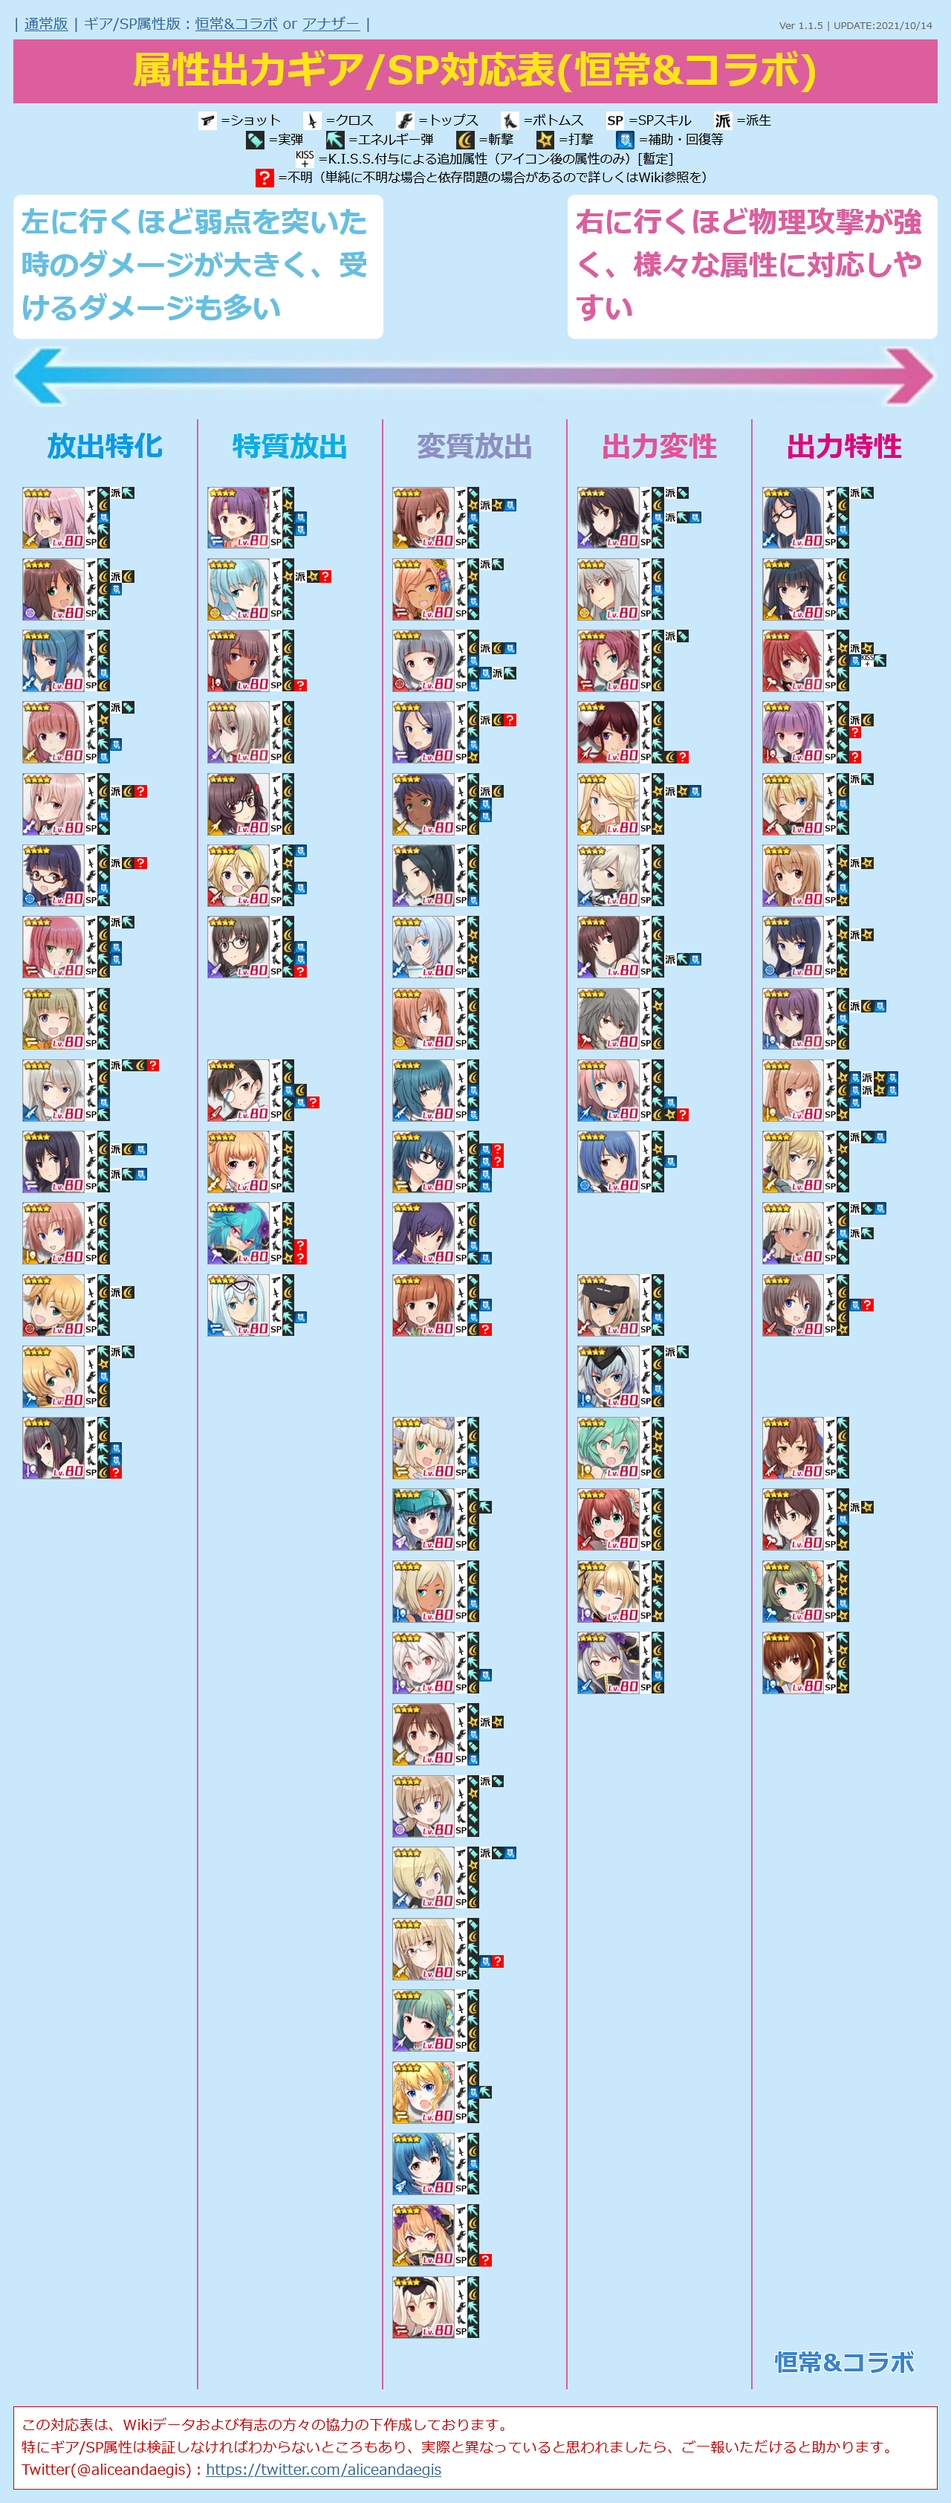
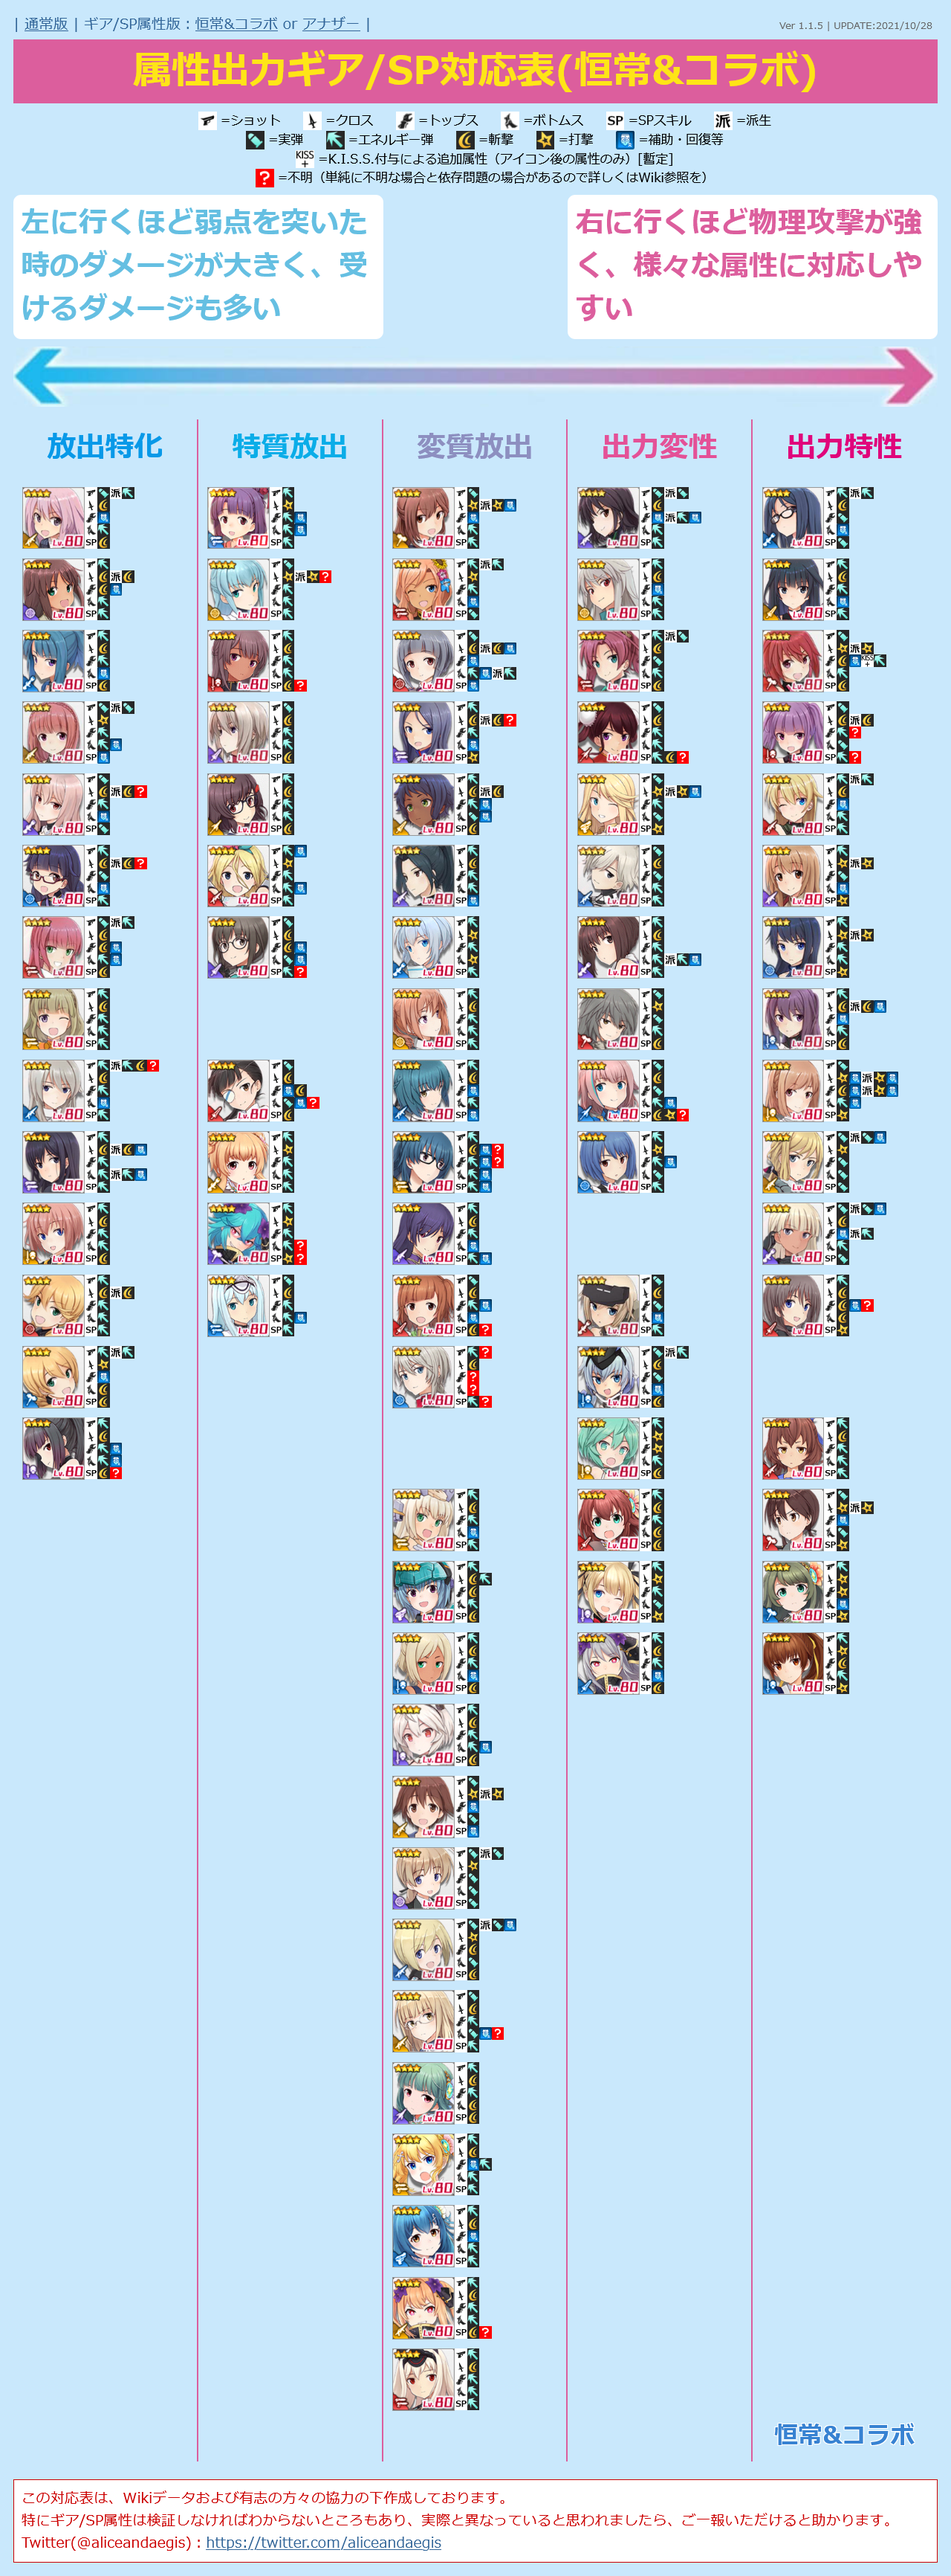
UPDATE charadata
・新キャラ アデライーデ・ブルートハウゼンを追加

diff --git a/alice.html b/alice.html
@@ -12,7 +12,7 @@
   <script>
 
 /* 更新情報 必要に応じて書き換えてください */
-  var version = "Ver 1.1.5 | UPDATE:2021/10/14";
+  var version = "Ver 1.1.5 | UPDATE:2021/10/28";
 
 
 /*
@@ -1366,6 +1366,20 @@
       "sp": "3?",
       "attr": "2",
       "link": "https://wikiwiki.jp/alicegear/%E6%B3%A2%E4%BD%90%E8%A6%8B%E5%88%A9%E4%BD%B3",
+      "category": ""
+    },
+    {
+      "id": "56",
+      "type": "3",
+      "src": "normal-adie.png",
+      "name": "アデライーデ・ブルートハウゼン",
+      "equip1": "2?",
+      "equip2": "3",
+      "equip3": "?",
+      "equip4": "?",
+      "sp": "2?",
+      "attr": "4",
+      "link": "https://wikiwiki.jp/alicegear/%E3%82%A2%E3%83%87%E3%83%A9%E3%82%A4%E3%83%BC%E3%83%87%E3%83%BB%E3%83%96%E3%83%AB%E3%83%BC%E3%83%88%E3%83%8F%E3%82%A6%E3%82%BC%E3%83%B3",
       "category": ""
     },
     {
